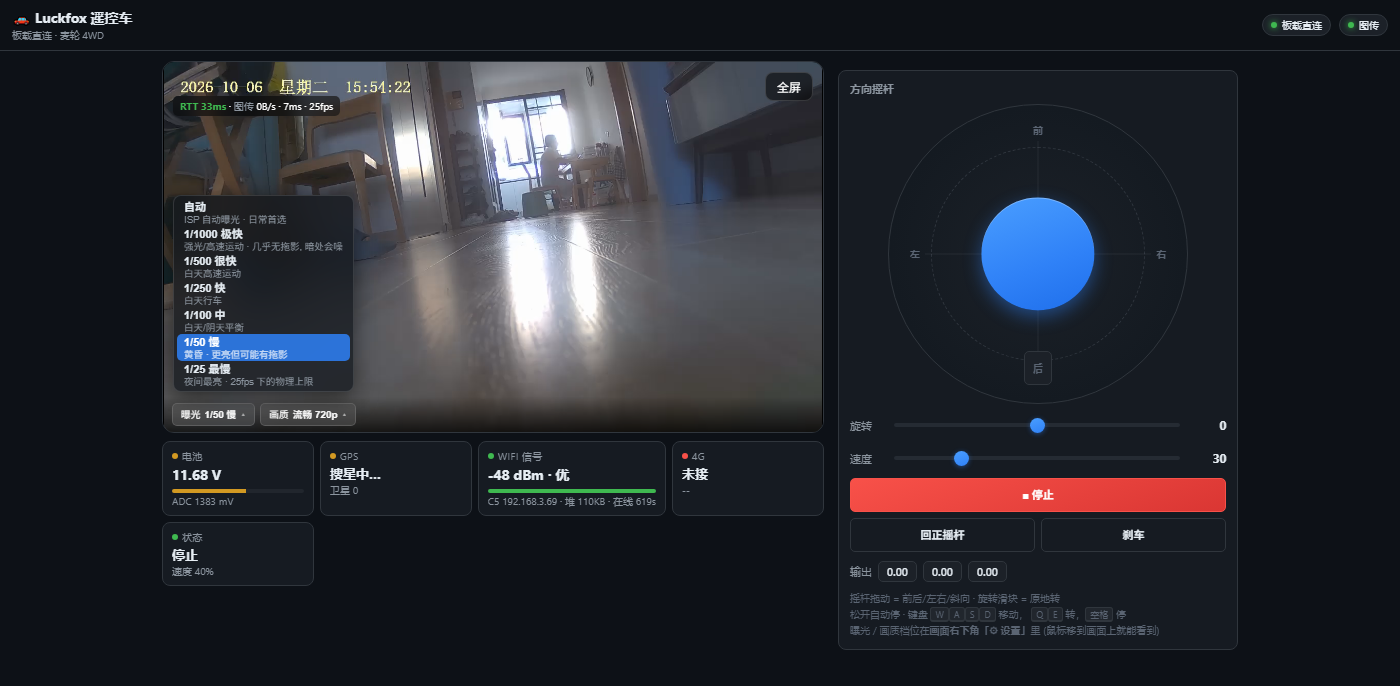
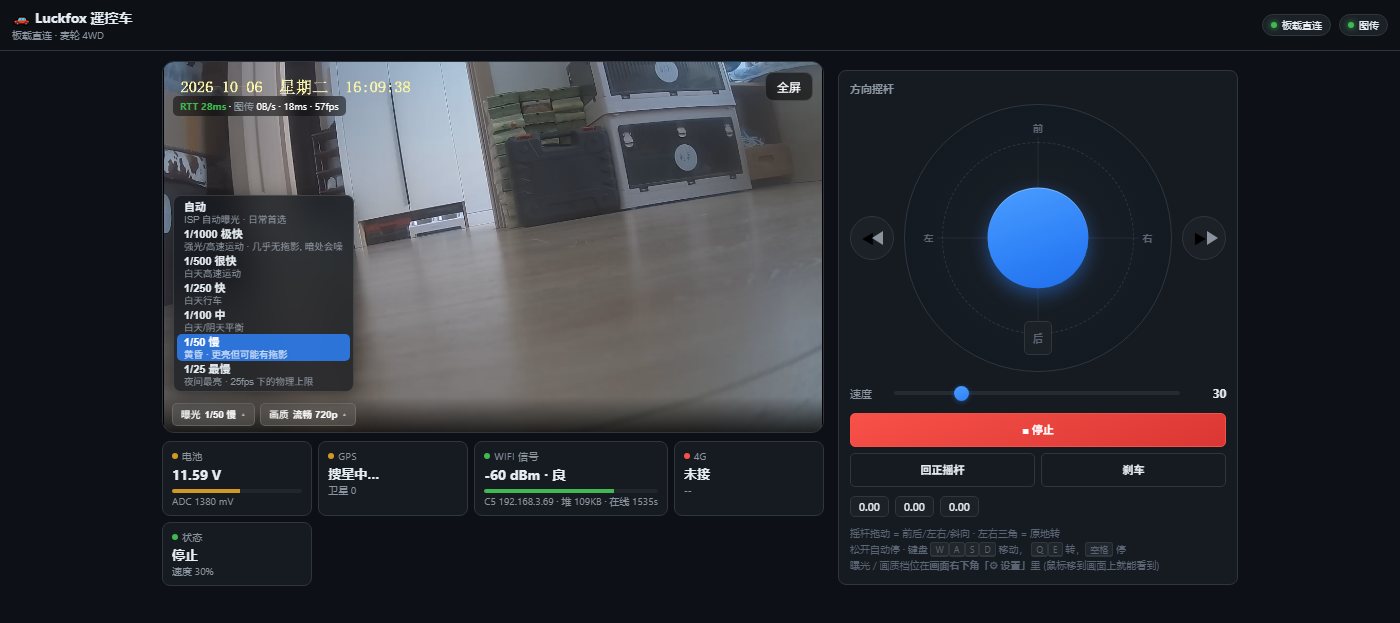
fix: 原地转改成转盘左右三角按钮 (去掉旋转滑条) + 去掉"输出"字样
界面 (board/app/index.html)
* 删除"旋转"滑条, 改成贴在转盘左右两侧的两个三角按钮 (按住转, 松手回正)
  - 平滑推到 ±70% 约 700ms, 避免瞬间满舵甩车
  - 按住时按钮变蓝反馈
  - 修复一个安全 bug: 原先用了 setPointerCapture, 导致指针离开按钮后
    pointerleave 永不触发 -> "按住再拖走, 车还在原地转"。改为不 capture,
    pointerup/pointercancel 绑 window + pointerleave 兜底
* 删除 dirbar 里的"输出"二字 (只剩三个数值)
* 面板上现在只剩一个滑条 (速度)

修复部署静默失败 (重要)
* /userdata 只有 2.2MB 且当时 100% 占满 (可用 4KB), 导致 scp 上传成功
  但 cp/mv 静默失败 -> "改了页面却毫无变化"
* 清理: cmd_trace.log(1.16MB) / _snap_kernel(1.4MB) / spitun ko 备份 /
  前端 .bak / __pycache__  ->  可用 4KB 提升到 1.9MB (100% -> 17%)
* 删除前已 tar 备份全部内容到 PC, 并比对 md5 确认 spitun_new.ko 与正在
  运行的 ko 完全相同

文档与工具
* 新增 docs/USERDATA_SPACE.md: 症状、排查方法、清理原则
* README 增加操作件说明 (为什么用按钮不用滑条) 与部署排查入口
* 更新界面截图 (已裁剪空白)
* gps_tz.py 不再同步回发布树 (它是已废弃的 +8 补偿层)

diff --git a/board/app/index.html b/board/app/index.html
@@ -175,6 +175,25 @@ main{max-width:1100px;margin:0 auto;padding:10px 12px 24px}
 .panel h3{margin:0 0 8px;font-size:10.5px;color:var(--dim);font-weight:600;
   text-transform:uppercase;letter-spacing:.5px}
 
+/* 转盘 + 左右两侧的原地转按钮。
+ * 用 flex 把两个三角贴在圆盘左右, 与圆盘**垂直居中**对齐。
+ * 三角用 CSS border 画 (纯字符 ▲ 在不同字体下大小/基线不一致)。 */
+#stickWrap{display:flex;align-items:center;justify-content:center;gap:10px}
+.rotb{width:44px;height:44px;flex:none;border-radius:50%;cursor:pointer;
+  border:1px solid var(--line);background:var(--card2);padding:0;
+  display:flex;align-items:center;justify-content:center;
+  touch-action:none;-webkit-tap-highlight-color:transparent;
+  transition:background .12s,transform .06s,border-color .12s}
+.rotb:after{content:"";display:block;width:0;height:0;
+  border-top:7px solid transparent;border-bottom:7px solid transparent}
+.rotb.l:after{border-right:11px solid #8b949e;margin-left:-3px}
+.rotb.r:after{border-left:11px solid #8b949e;margin-right:-3px}
+.rotb:hover{background:#262d36}
+/* 按住时: 变蓝 + 三角变白, 明确反馈"正在原地转" */
+.rotb.on{background:rgba(47,129,247,.9);border-color:#2f81f7;transform:scale(.95)}
+.rotb.on.l:after{border-right-color:#fff}
+.rotb.on.r:after{border-left-color:#fff}
+
 #stick{position:relative;width:100%;max-width:300px;aspect-ratio:1;margin:0 auto;
   border-radius:50%;
   background:radial-gradient(circle at 50% 50%,#1c2128 0%,#141a21 70%,#0f141a 100%);
@@ -230,7 +249,7 @@ input[type=range]::-moz-range-thumb{width:15px;height:15px;border:0;border-radiu
 .b.wide{grid-column:1/-1}
 .b.ghost{background:transparent}
 
-/* 速度/旋转行 (与滑条样式统一) */
+/* 速度行 (与滑条样式统一) */
 .row{display:flex;align-items:center;gap:8px;margin-top:9px}
 .row .t{font-size:11px;color:var(--dim);width:34px;flex:none}
 .row .n{font-size:11.5px;font-weight:700;width:36px;text-align:right;
@@ -243,6 +262,16 @@ input[type=range]::-moz-range-thumb{width:15px;height:15px;border:0;border-radiu
   .row{margin-top:8px}
   input[type=range]{height:24px}
   input[type=range]::-webkit-slider-thumb{width:20px;height:20px;margin-top:-8px}
+  /* 小屏上把整个转盘装配收窄, 保证 "三角 + 圆盘 + 三角" 不溢出。
+     圆盘是 aspect-ratio:1 的正方形, 所以用 flex:1 + max-width 让它自适应。 */
+  #stickWrap{gap:6px}
+  #stick{flex:1;min-width:0;max-width:none}
+  .rotb{width:38px;height:38px}
+}
+/* 窄到 360px 以下再收一档 */
+@media(max-width:380px){
+  #stickWrap{gap:4px}
+  .rotb{width:34px;height:34px}
 }
 
 #dirbar{display:flex;align-items:center;gap:6px;margin-top:9px;font-size:11px;
@@ -336,19 +365,20 @@ kbd{background:#21262d;border:1px solid var(--line);border-bottom-width:2px;
   <div>
     <div class="panel">
       <h3>方向摇杆</h3>
-      <div id="stick">
-        <div class="ring"></div>
-        <div class="cross"></div>
-        <div class="lbl t">前</div><div class="lbl b">后</div>
-        <div class="lbl l">左</div><div class="lbl r">右</div>
-        <div id="knob"></div>
+      <!-- 左右原地转: 两个三角按钮贴在转盘**左右两侧** (原来是下面的滑条)。
+           按住持续转, 松开回正 —— 见 rotBtnDown/rotBtnUp。 -->
+      <div id="stickWrap">
+        <button class="rotb l" id="rotL" title="按住原地左转 (或按 Q)">◀</button>
+        <div id="stick">
+          <div class="ring"></div>
+          <div class="cross"></div>
+          <div class="lbl t">前</div><div class="lbl b">后</div>
+          <div class="lbl l">左</div><div class="lbl r">右</div>
+          <div id="knob"></div>
+        </div>
+        <button class="rotb r" id="rotR" title="按住原地右转 (或按 E)">▶</button>
       </div>
 
-      <div class="row">
-        <div class="t">旋转</div>
-        <input type="range" id="rot" min="-100" max="100" value="0">
-        <div class="n" id="rotN">0</div>
-      </div>
       <div class="row">
         <div class="t">速度</div>
         <input type="range" id="spd" min="10" max="100" value="30">
@@ -362,7 +392,7 @@ kbd{background:#21262d;border:1px solid var(--line);border-bottom-width:2px;
       </div>
 
       <div id="dirbar">
-        输出 <span class="tag" id="vxTxt">0.00</span>
+        <span class="tag" id="vxTxt">0.00</span>
         <span class="tag" id="vyTxt">0.00</span>
         <span class="tag" id="wTxt">0.00</span>
         <!-- 正常时隐藏; 只有板子报"失控超时过短"才显示 (见 updHb) -->
@@ -370,7 +400,7 @@ kbd{background:#21262d;border:1px solid var(--line);border-bottom-width:2px;
       </div>
 
       <div class="hint">
-        摇杆拖动 = 前后/左右/斜向 · 旋转滑块 = 原地转<br>
+        摇杆拖动 = 前后/左右/斜向 · 左右三角 = 原地转<br>
         松开自动停 · 键盘 <kbd>W</kbd><kbd>A</kbd><kbd>S</kbd><kbd>D</kbd> 移动，
         <kbd>Q</kbd><kbd>E</kbd> 转，<kbd>空格</kbd> 停<br>
         曝光 / 画质档位在<b>画面右下角「⚙ 设置」</b>里 (鼠标移到画面上就能看到)
@@ -1014,7 +1044,6 @@ stick.addEventListener('pointermove', e => { if(e.pointerId===dragId) stickMove(
 stick.addEventListener('pointerup', e => { if(e.pointerId===dragId) stickEnd(); });
 stick.addEventListener('pointercancel', e => { if(e.pointerId===dragId) stickEnd(); });
 
-$('rot').addEventListener('input', e => { rot = +e.target.value; $('rotN').textContent = rot; updOut(); });
 $('spd').addEventListener('input', e => { speed = +e.target.value; $('spdN').textContent = speed;
   api('/api/speed', {s:speed}); });
 
@@ -1140,13 +1169,70 @@ async function pollVideo(){
 pollVideo();
 setInterval(pollVideo, 5000);
 
+/* ---- 原地转: 左右两个三角按钮 (按住持续转, 松开回正) ----
+ * 为什么不用滑条: 开车时滑条要"先拖到位置再保持", 单手很难; 三角按住即可,
+ * 松开自动回正 = 天然的失效保护 (手一松车就不转)。
+ *
+ * 保留 rot 这个 -100..100 的轴 (与 mqtt/键盘 Q E 同一套语义),
+ * 按钮只是把它推到 ±TURN_MAX。
+ */
+const TURN_MAX = 70;            // 按住时的转向量 (-100..100), 对齐原来滑条的常用区
+const TURN_SPEED = 8;           // 满量程耗时 = TURN_MAX/100*1s ≈ 700ms, 够快但不窜
+
+let turnDir = 0;                // -1 左 / 0 停 / +1 右
+let turnTimer = null;
+
+function turnStop(){
+  if(turnTimer){ clearInterval(turnTimer); turnTimer = null; }
+  turnDir = 0;
+  rot = 0;
+  $('rotL').classList.remove('on'); $('rotR').classList.remove('on');
+  updOut();
+}
+function turnStart(dir){
+  turnDir = dir;
+  (dir < 0 ? $('rotL') : $('rotR')).classList.add('on');
+  if(turnTimer) return;                       // 已在转, 不重复起定时器
+  turnTimer = setInterval(() => {
+    const target = turnDir * TURN_MAX;
+    /* 平滑逼近目标值, 避免瞬间满舵导致车身猛甩 */
+    if(Math.abs(rot - target) < TURN_SPEED) rot = target;
+    else rot += Math.sign(target - rot) * TURN_SPEED;
+    updOut();
+    if(rot === target){ clearInterval(turnTimer); turnTimer = null; }
+  }, 30);
+}
+
+/* 指针事件 (鼠标 + 触摸 + 笔统一)。
+ *
+ * ⚠ 这里踩过一个坑 (实测发现): 一开始给按钮加了 setPointerCapture,
+ * 想保证"手指滑出按钮后仍能收到 pointerup"。但 capture 会把**所有**指针
+ * 事件都重定向到该元素, 于是 pointerleave **永远不会触发** ——
+ * 结果是"按住后把指针拖到别处, 车还在原地转", 对遥控车是危险的。
+ *
+ * 正确做法: **不要 capture**。把 pointerup/pointercancel 绑到 window
+ * (手指/鼠标在页面任何地方松开都能停), 同时用 pointerleave 在指针
+ * 离开按钮时立刻停 —— 双保险, 怎么松都能停。
+ */
+function bindTurn(el, dir){
+  el.addEventListener('pointerdown', e => {
+    e.preventDefault();
+    turnStart(dir);
+  });
+  el.addEventListener('pointerleave', () => { if(turnDir === dir) turnStop(); });
+  ['pointerup','pointercancel'].forEach(ev =>
+    window.addEventListener(ev, () => { if(turnDir === dir) turnStop(); }));
+}
+bindTurn($('rotL'), -1);
+bindTurn($('rotR'), +1);
+
 $('btnStop').onclick = () => {
-  vx = vy = 0; rot = 0; $('rot').value = 0; $('rotN').textContent = '0';
+  vx = vy = 0; turnStop();
   knob.style.transform = 'translate(-50%,-50%)'; updOut(); api('/api/cmd', {c:'stop'});
 };
 $('btnCenter').onclick = () => { stickEnd(); api('/api/cmd', {c:'stop'}); };
 $('btnBrake').onclick = () => {
-  vx = vy = 0; rot = 0; $('rot').value = 0; $('rotN').textContent = '0';
+  vx = vy = 0; turnStop();
   knob.style.transform = 'translate(-50%,-50%)'; updOut(); api('/api/cmd', {c:'brake'});
 };
 
@@ -1167,7 +1253,6 @@ function keyApply(){
   if(keys['e']) r += 1;   /* E -> w +  -> 右转 */
   if(keys['q']) r -= 1;   /* Q -> w -  -> 左转 */
   vx = Math.max(-1,Math.min(1,x)); vy = Math.max(-1,Math.min(1,y)); rot = r*100;
-  $('rot').value = rot; $('rotN').textContent = rot;
   knob.style.transform = `translate(calc(-50% + ${vx*38}%),calc(-50% + ${-vy*38}%))`;
   updOut();
 }

diff --git a/README.md b/README.md
@@ -61,6 +61,7 @@ docs/                   文档与截图
 | 隧道怎么做的、为什么这么做 | `driver/spitun.c` + `docs/SPI_TUNNEL_DESIGN.md` |
 | 延迟瓶颈的实测分析 | `docs/SPI_LATENCY_ANALYSIS.md` |
 | **时钟为什么故意不设时区** | `docs/TIME.md` |
+| **部署"没生效"先查什么** | `docs/USERDATA_SPACE.md`（`/userdata` 只有 2.2MB）|
 | 完整的开发过程与踩坑记录 | `docs/PROGRESS.md` |
 | 硬件怎么接 | `docs/WIRING.md` |
 | 板上怎么部署 | `board/init.d/` + `tools/deploy/` |
@@ -88,7 +89,20 @@ docs/                   文档与截图
 * **失效保护告警** —— 板子统计"指令到达间隔超过失控超时的比例"（误停率），
   超过 5% 时页面变红提示"超时过短，正在误停"。
 
-> **曝光/画质为什么是"档位"而不是滑条**：ISP 参数在 rkipc 启动时就被固化，
+### 操作件：能按的就不拖
+
+面板上只留**一个**滑条（速度）。原地转改成了贴在转盘**左右两侧的两个三角按钮**：
+
+* 原来"旋转"是根滑条 —— 开车时得先拖到某个位置再保持住，单手很难做到。
+  改成**按住三角就转、一松手立刻回正**，既是手感改进，也是天然的失效保护：
+  手一松车就不转了。
+* 转向量在约 700ms 内平滑推到 ±70%（避免瞬间满舵把车甩出去），按住期间按钮变蓝。
+* **指针离开按钮就停** —— 这里踩过一个坑：一开始用了 `setPointerCapture`，
+  结果 capture 把所有指针事件都重定向到按钮，`pointerleave` 永远不触发，
+  于是"按住后把指针拖到别处，车还在原地转"。现在改成不 capture，把
+  `pointerup/pointercancel` 绑在 window 上，同时用 `pointerleave` 兜底。
+
+> **曝光/画质为什么也是"档位"而不是滑条**：ISP 参数在 rkipc 启动时就被固化，
 > 改任何摄像头参数都必须**重启 rkipc（约 20 秒画面中断）**——这是硬限制。
 > 所以做成离散档位，而不是拖一下就发一次的滑条。
 > 曝光档位实测有效（1/1000 → ISP exposure=41，1/25 → 1624，单调可控）；

diff --git a/docs/USERDATA_SPACE.md b/docs/USERDATA_SPACE.md
@@ -1,0 +1,41 @@
+## 附：`/userdata` 只有 2.2MB —— 写满了会静默失败
+
+排查界面改动"部署了但页面没变"时发现的：`/userdata` 是 **2.2MB 的 UBI 卷**，
+当时 **100% 占满（可用 4KB）**。
+
+### 症状（很有欺骗性）
+
+`scp` 上传**成功**（文件确实出现在板子上），但紧接着的 `cp`/`mv` **静默失败** ——
+于是 `index.html` 还是旧的，页面刷新后毫无变化，看起来像"改了没生效"。
+第一次甚至误判成 `scp` 失败（实际是 `fsetstat` 报权限失败，与传输无关）。
+
+**排查时别只看"文件传上去了没有"，一定要看 `df`：**
+
+```sh
+df -h /userdata
+```
+
+### 当时占空间的都是什么
+
+| 占用 | 大小 | 说明 |
+|---|---|---|
+| `cmd_trace.log` | 1.16 MB | 排查控制丢包时开的指令追踪日志 |
+| `_snap_kernel/` | 1.4 MB | 内核状态快照（历史备份，含已废弃的 `S99rtcinit`/`gps_tz.py`）|
+| `spitun_new.ko` / `spitun_prev.ko` | 各 354 KB | 内核模块备份（`spitun_new.ko` 与正在运行的 **md5 完全相同**，纯冗余）|
+| `car/*.bak*`、`_bak_ui.html` 等 | ~240 KB | 前端历史备份 |
+| `car/__pycache__/` | 284 KB | Python 字节码（自动重建）|
+
+### 清理原则
+
+1. **先备份再删**：`tar` 整个打走存到 PC，确认能解开、关键文件都在，再动手。
+   （对应 `board_userdata_backup_*.tar`）
+2. **删之前先比 md5**：确认"备份的 ko"和"正在跑的 ko"是不是同一个 —— 是就放心删。
+3. **顺手关掉日志源**：删 `cmd_trace.log` 的同时删掉 `/userdata/cmd_trace_on`，
+   否则它随时又长回来。
+4. `__pycache__` / `.bak` 可以放心删。
+
+清理后：**可用 4KB → 1.9MB（100% → 17%）**。
+
+> 教训：这块板子的 `/userdata` 小到**一次日志就能写满**。任何"部署到板子"
+> 的操作，都该先看 `df`，并且把结果当成部署是否成功的判据之一 ——
+> 只看文件传没传上去是不够的。
